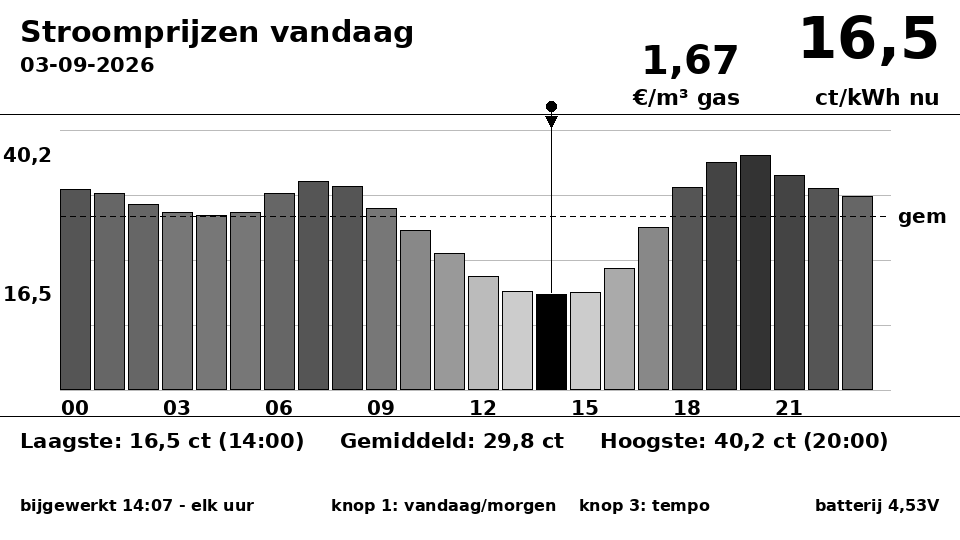
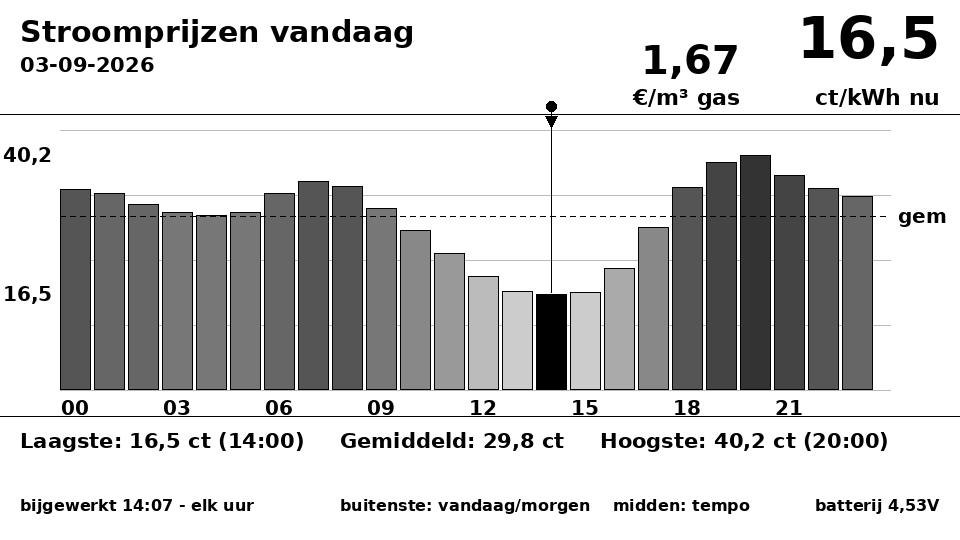
Knopteksten vanuit de gebruiker, wakes op het hele uur, 22:00 vervalt
Drie kleine maar merkbare correcties.

1. Knopteksten. Zoals je er in landschapsstand tegenaan kijkt is de volgorde
   omgekeerd aan het datasheet: links RST, rechts IO39, IO35 in het midden.
   "De bovenste knop" zei dus niets meer. Het scherm zegt nu "buitenste:
   vandaag/morgen    midden: tempo", en op het lege scherm "druk op de linker-
   of rechterknop".

2. De wake van 22:02 vervalt. In de zuinige stand blijft alleen middernacht
   over; dat is toch het enige moment waarop er iets verandert dat het apparaat
   niet al weet.

3. Uurmodus tekent op het HELE uur. De kandidaten zijn absolute klokmomenten,
   geen "nu + 1 uur" - zet je hem om 09:45 aan, dan is de eerstvolgende
   tekening 10:00 en niet 10:45. Anders staat de markering van het huidige uur
   structureel scheef, en dat is nu juist waar deze modus voor bestaat.

Middernacht is meteen ook echt 00:00 geworden in plaats van 00:07. De buffer
van zeven minuten is niet meer nodig: de HA-sensoren verversen zelf op :00, en
komt er toch nog een nieuwe waarde binnen dan hertekent all_data_received
alsnog en herstart enter_sleep (mode: restart) het slaapvenster.

Claude-Session: https://claude.ai/code/session_017anW5jJQF2iobA1arDdBDG

Changed region(s): [[0.3438, 0.9185, 0.7812, 0.9481]]

diff --git a/tools/render_preview.py b/tools/render_preview.py
@@ -153,7 +153,7 @@ def render(prices, is_today, current_idx, date_str, filename, updated_str="21:03
     # was y=505 -> viel tegen de onderrand aan; nu 496
     tempo = "elk uur" if hourly else "2x per dag"
     draw_text(d, (20, 496), f"bijgewerkt {updated_str} - {tempo}", f_small)
-    draw_text(d, (520, 496), "knop 1: vandaag/morgen    knop 3: tempo", f_small, anchor="ma")
+    draw_text(d, (545, 496), "buitenste: vandaag/morgen    midden: tempo", f_small, anchor="ma")
     draw_text(d, (940, 496), "batterij 4,53V", f_small, anchor="ra")
 
     img.save(filename)
@@ -179,14 +179,14 @@ def render_unknown(filename, updated_str="09:20"):
     draw_text(d, (20, 14), "Stroomprijzen morgen", f_title)
     d.line([(0, 114), (960, 114)], fill=BLACK, width=1)
     draw_text(d, (480, 250), "Prijzen van morgen nog niet bekend", f_title, anchor="ma")
-    draw_text(d, (480, 300), "Druk op de bovenste knop om te wisselen", f_footer, anchor="ma")
+    draw_text(d, (480, 300), "Druk op de linker- of rechterknop om te wisselen", f_footer, anchor="ma")
     draw_text(d, (20, 496), f"bijgewerkt {updated_str}", f_small)
-    draw_text(d, (520, 496), "knop 1: vandaag/morgen    knop 3: tempo", f_small, anchor="ma")
+    draw_text(d, (545, 496), "buitenste: vandaag/morgen    midden: tempo", f_small, anchor="ma")
     draw_text(d, (940, 496), "batterij 4,53V", f_small, anchor="ra")
     img.save(filename)
     print("saved", filename)
 
 
 render(today, True, 14, "03-09-2026", "../docs/preview-vandaag.png", updated_str="14:07", gas=GAS, hourly=True)
-render(tomorrow, False, 0, "04-09-2026", "../docs/preview-morgen.png", updated_str="22:02")
+render(tomorrow, False, 0, "04-09-2026", "../docs/preview-morgen.png", updated_str="21:37")
 render_unknown("../docs/preview-morgen-onbekend.png")

diff --git a/README.md b/README.md
@@ -49,7 +49,7 @@ Zonneplan (HACS-integratie fsaris/home-assistant-zonneplan-one)
         │
         └─ sensor.zonneplan_current_tariff_gas   (EUR/m3, dagprijs)
                 ▼  (ESPHome native API)
-        LilyGo T5 4.7"  ← heeft beide dagen, knop 1 wisselt ertussen
+        LilyGo T5 4.7"  ← heeft beide dagen, buitenste knoppen wisselen
 ```
 
 **Twee sensoren, elk met een vaste betekenis.** Dat is nodig omdat het scherm
@@ -93,26 +93,35 @@ day-ahead-fetch. Het half-uurritme is er vooral voor zelfherstel: staat de
 integratie bij HA-opstart nog niet klaar, dan is de sensor binnen 30 minuten
 alsnog gevuld.
 
-Het apparaat wordt standaard om **00:07** en **22:02** wakker. Met knop 3 zet je
-het op **elk uur** (zie Bediening). Bij die geplande wakes kiest het scherm zelf de
+Het apparaat wordt standaard alleen om **00:00** wakker — dat is het moment
+waarop de datum omslaat. Met de middelste knop zet je het op **elk heel uur**
+(zie Bediening). Bij die geplande wakes kiest het scherm zelf de
 logische weergave: 's nachts vandaag, vanaf 22:00 morgen. Zo zie je 's avonds
 of je de vaatwasser 's nachts moet laten draaien of beter tot morgenmiddag
 kunt wachten.
 
 ## Bediening
 
-**Elke knopdruk wisselt tussen vandaag en morgen** - zowel de wake-knop
-(IO39) als de resetknop (RST). Indrukken wekt het apparaat, het wisselt van
-dag en tekent opnieuw. Nog eens indrukken brengt je terug.
+Zo staan de knoppen erop, van links naar rechts zoals je ernaar kijkt:
 
-Dat het ook op RST werkt is bewust: op de T5 4.7" staan de knoppen in de
-volgorde **IO39 - IO34 - IO35 - IO0 - RST**, en RST is voor de meeste mensen
-de knop die het makkelijkst te vinden is. Deep sleep verlaten via een reset
-kost net zoveel als via de wake-pin, dus er is geen reden om je naar een
-specifieke knop te dwingen.
+| positie | pin | functie |
+|---|---|---|
+| **links** | RST | wisselen vandaag ↔ morgen (via een reset) |
+| links-midden | IO0 | — |
+| **midden** | IO35 | ververstempo: elk uur ↔ 1x per dag |
+| rechts-midden | IO34 | stay-awake voor onderhoud/OTA |
+| **rechts** | IO39 | wekken + wisselen vandaag ↔ morgen |
 
-Alleen een **geplande wake** (00:07 / 22:02) kiest zelf: 's nachts vandaag,
-'s avonds morgen. De firmware onderscheidt dat aan de wake-oorzaak - is die
+**De buitenste twee knoppen wisselen tussen vandaag en morgen.** Indrukken wekt
+het apparaat, het wisselt van dag en tekent opnieuw. Nog eens indrukken brengt
+je terug.
+
+Dat het ook op RST werkt is bewust: dat is voor de meeste mensen de knop die het
+makkelijkst te vinden is, en deep sleep verlaten via een reset kost net zoveel
+als via de wake-pin.
+
+Alleen een **geplande wake** kiest zelf welke dag: 's nachts vandaag, vanaf
+22:00 morgen. De firmware onderscheidt dat aan de wake-oorzaak - is die
 `ESP_SLEEP_WAKEUP_TIMER`, dan is het de klok; al het andere is een mens.
 
 > Ook een herstart na een OTA-update telt als knopdruk, dus vlak na het
@@ -124,13 +133,19 @@ firmware vergelijkt daarvoor het `datum`-attribuut van de sensor met zijn eigen
 berekende datum van morgen; komen die niet overeen, dan is de sensor blijven
 hangen op een mislukte fetch.
 
-### Knop 3: het ververstempo
+### De middelste knop: het ververstempo
 
-Standaard wordt het scherm twee keer per dag getekend. Dat is zuinig, maar het
-"huidige uur" klopt dan een groot deel van de dag niet meer. Knop 3 (GPIO35)
-schakelt naar **elk uur op HH:07**, met een **nachtbesparing**: tussen 01:00 en
-05:00 slaat hij de wakes over — er verandert 's nachts toch niets aan het beeld
-dat je dan ziet. Dat zijn 20 wakes per dag in plaats van 24.
+Standaard wordt het scherm één keer per dag getekend, om middernacht. Dat is
+zuinig, maar het "huidige uur" klopt dan een groot deel van de dag niet meer.
+De middelste knop (IO35) schakelt naar **elk heel uur**, met een
+**nachtbesparing**: tussen 01:00 en 05:00 slaat hij de wakes over — er verandert
+'s nachts toch niets aan het beeld dat je dan ziet. Dat zijn 20 wakes per dag in
+plaats van 24.
+
+**Op het hele uur, niet op het klokje van de knopdruk.** De wake-momenten zijn
+absolute klokmomenten (09:00, 10:00, …), geen "nu plus een uur". Schakel je om
+09:45 om, dan is de eerstvolgende tekening dus 10:00 — anders zou de markering
+van het huidige uur en de "nu"-prijs structureel drie kwartier scheef staan.
 
 Reken op ongeveer **tienmaal het accuverbruik** van de zuinige stand: ~5 minuten
 per dag wakker (inclusief het OTA-venster van 10 s per wake) tegenover ~30
@@ -138,14 +153,15 @@ seconden. Nog eens drukken zet hem terug.
 
 De keuze staat in een global met `restore_value: yes` en overleeft dus deep
 sleep. Welke stand actief is lees je linksonder op het scherm af:
-`bijgewerkt 14:07 - elk uur` of `- 2x per dag`.
+`bijgewerkt 14:00 - elk uur` of `- 2x per dag`.
 
-> **Knop 3 kan het apparaat niet wekken** — alleen GPIO39 kan dat. Wek hem dus
-> eerst met knop 1 of de resetknop, en druk daarna op knop 3. Sinds deze
-> wijziging start elke knopdruk het wakkere venster van 10 seconden opnieuw
+> **De middelste knop kan het apparaat niet wekken** — alleen IO39 kan dat. Wek
+> hem dus eerst met de linker- of rechterknop, en druk daarna op de middelste.
+> Elke knopdruk start het wakkere venster van 10 seconden opnieuw
 > (`mode: restart` op het `enter_sleep`-script), dus je hebt rustig de tijd.
 
-De middelste knop (GPIO34) houdt het apparaat wakker voor onderhoud/OTA.
+De knop rechts van het midden (IO34) houdt het apparaat wakker voor
+onderhoud/OTA.
 
 De **gasprijs** staat links van het grote getal, alleen in de vandaag-weergave.
 Zonneplan publiceert geen gasdagprijs voor morgen (de gasdag loopt van 06:00 tot
@@ -196,12 +212,12 @@ epdiy-boarddefinitie.
 
 | GPIO | Functie |
 |---|---|
-| 39 | Wake uit deep sleep + **wisselen tussen vandaag en morgen** (bovenste zijknop) |
+| 39 | Wake uit deep sleep + **wisselen tussen vandaag en morgen** (knop uiterst rechts) |
 | 34 | Stay-awake: houdt het apparaat wakker voor onderhoud/OTA |
-| 35 | Ververstempo: elk uur ↔ 2x per dag |
+| 35 | Ververstempo: elk uur ↔ 1x per dag (middelste knop) |
 | 36 | Accuspanning (ADC, deler x2) |
 
-Knop 1 moest de wisselknop worden omdat hij als enige het apparaat kan wekken:
+De rechterknop moest de wisselknop worden omdat hij als enige het apparaat kan wekken:
 de ESP32 ext1-wakeup staat op `ALL_LOW`, en dat betekent letterlijk "wek als
 *alle* opgegeven pinnen laag zijn". Een tweede pin toevoegen zou betekenen dat
 je twee knoppen tegelijk moet indrukken.
@@ -241,6 +257,9 @@ Kort samengevat; de volledige uitleg staat in
   de opslag is een contractvoorwaarde en de energiebelasting wijzigt jaarlijks.
 * **Dunne fonts ogen grijs op e-paper.** Niet de kleur of de grootte is het
   probleem maar het gewicht; alle fonts staan daarom op `@700`.
+* **Wake-momenten zijn absolute klokmomenten**, geen "nu + 1 uur" — anders
+  loopt de markering van het huidige uur permanent scheef met het moment waarop
+  je de modus aanzette.
 * **`deep_sleep.enter` negeert `deep_sleep.prevent`.** Wil je het apparaat
   wakker houden, gebruik dan een global + `wait_until`, zoals hier gedaan.
 * **ext1-wakeup met `ALL_LOW` en meerdere pinnen** wekt pas als *alle* pinnen

diff --git a/docs/troubleshooting.md b/docs/troubleshooting.md
@@ -461,18 +461,57 @@ Zonder `mode: restart` doet een tweede `script.execute` niets: de default is
 ### De nachtbesparing
 
 In uurmodus slaat de slaaplambda de uren 01 t/m 04 over. Belangrijk detail:
-**00:07 blijft wél staan**, want dat is het moment waarop de datum omslaat en de
-sensoren de nieuwe dag publiceren. De volgende wake is dan pas 05:07.
+**00:00 blijft wél staan**, want dat is het moment waarop de datum omslaat en de
+sensoren de nieuwe dag publiceren. De volgende wake is dan pas 05:00. De code
+staat in hoofdstuk 11, samen met de reden dat het absolute klokmomenten zijn.
+
+---
+
+## 11. Wake-momenten: absolute klok, niet "nu plus een uur"
+
+Twee dingen die pas opvielen toen het echt op tafel lag.
+
+**Oriëntatie.** De knopvolgorde in hoofdstuk 7 (`IO39 - IO34 - IO35 - IO0 - RST`)
+is hoe het bord er van de andere kant uitziet. Zoals de gebruiker er in
+landschapsstand tegenaan kijkt is het omgekeerd: **links RST, rechts IO39, IO35
+in het midden**. Alle schermteksten zijn daarop aangepast — "de bovenste knop"
+zei niets meer sinds de oriëntatie van staand naar liggend ging. Als je een
+knop-hint op een scherm zet: beschrijf de *positie zoals de gebruiker hem ziet*,
+niet het pinnummer en niet de volgorde uit het datasheet.
+
+**Absolute klokmomenten.** In uurmodus wordt de wake berekend als het
+eerstvolgende hele uur, niet als "nu + 3600". Dat verschil is de hele reden dat
+de modus bestaat: schakel je om 09:45 om en zou de firmware `now + 1h` nemen,
+dan tekent hij om 10:45, 11:45, 12:45 … en staat de markering van het huidige
+uur structureel drie kwartier scheef. Met absolute kandidaten valt elke tekening
+op een uurgrens:
 
 ```cpp
-next_s = -1;
-for (int hh = 0; hh < 24; hh++) {
-  if (hh > 0 && hh < 5) continue;
-  int cand = hh * 3600 + 7 * 60;
-  if (cand > now_s) { next_s = cand; break; }
+int next_s = -1;
+if (id(hourly_mode)) {
+  for (int hh = 0; hh < 24; hh++) {
+    if (hh > 0 && hh < 5) continue;      // nachtbesparing
+    int cand = hh * 3600;
+    if (cand > now_s) { next_s = cand; break; }
+  }
 }
-if (next_s < 0) next_s = 24 * 3600 + 7 * 60;   // morgen 00:07
+if (next_s < 0) next_s = 24 * 3600;      // eerstvolgende middernacht
 ```
 
-De `next_s < 0`-tak is niet theoretisch: druk je 's avonds na 23:07 op een knop,
-dan ligt er geen kandidaat meer vóór middernacht.
+De `next_s < 0`-tak dekt twee gevallen tegelijk: de zuinige modus (die alleen
+middernacht kent) en de uurmodus na 23:00.
+
+**Middernacht is nu ook echt 00:00**, niet 00:07. Die zeven minuten waren een
+buffer: wacht tot de HA-sensor gegarandeerd is bijgewerkt. Dat is niet meer
+nodig, en de race is ook niet gevaarlijk meer:
+
+* De HA-sensoren verversen op `minutes: "/30"`, dus óók om 00:00:00, en HA's
+  scheduler is er eerder bij dan het apparaat — dat heeft eerst nog een boot en
+  een wifi-verbinding nodig (~4 s).
+* Zou het apparaat tóch de oude waarde binnenkrijgen, dan komt de nieuwe daarna
+  alsnog via de API binnen, vuurt `on_value` opnieuw, en dat draait
+  `all_data_received` — inclusief een nieuwe tekening. Sinds `enter_sleep`
+  `mode: restart` is, wordt het slaapvenster daarbij netjes opnieuw gestart.
+
+Het herstelt zichzelf dus, in plaats van dat je er een buffer voor moet
+verzinnen.
